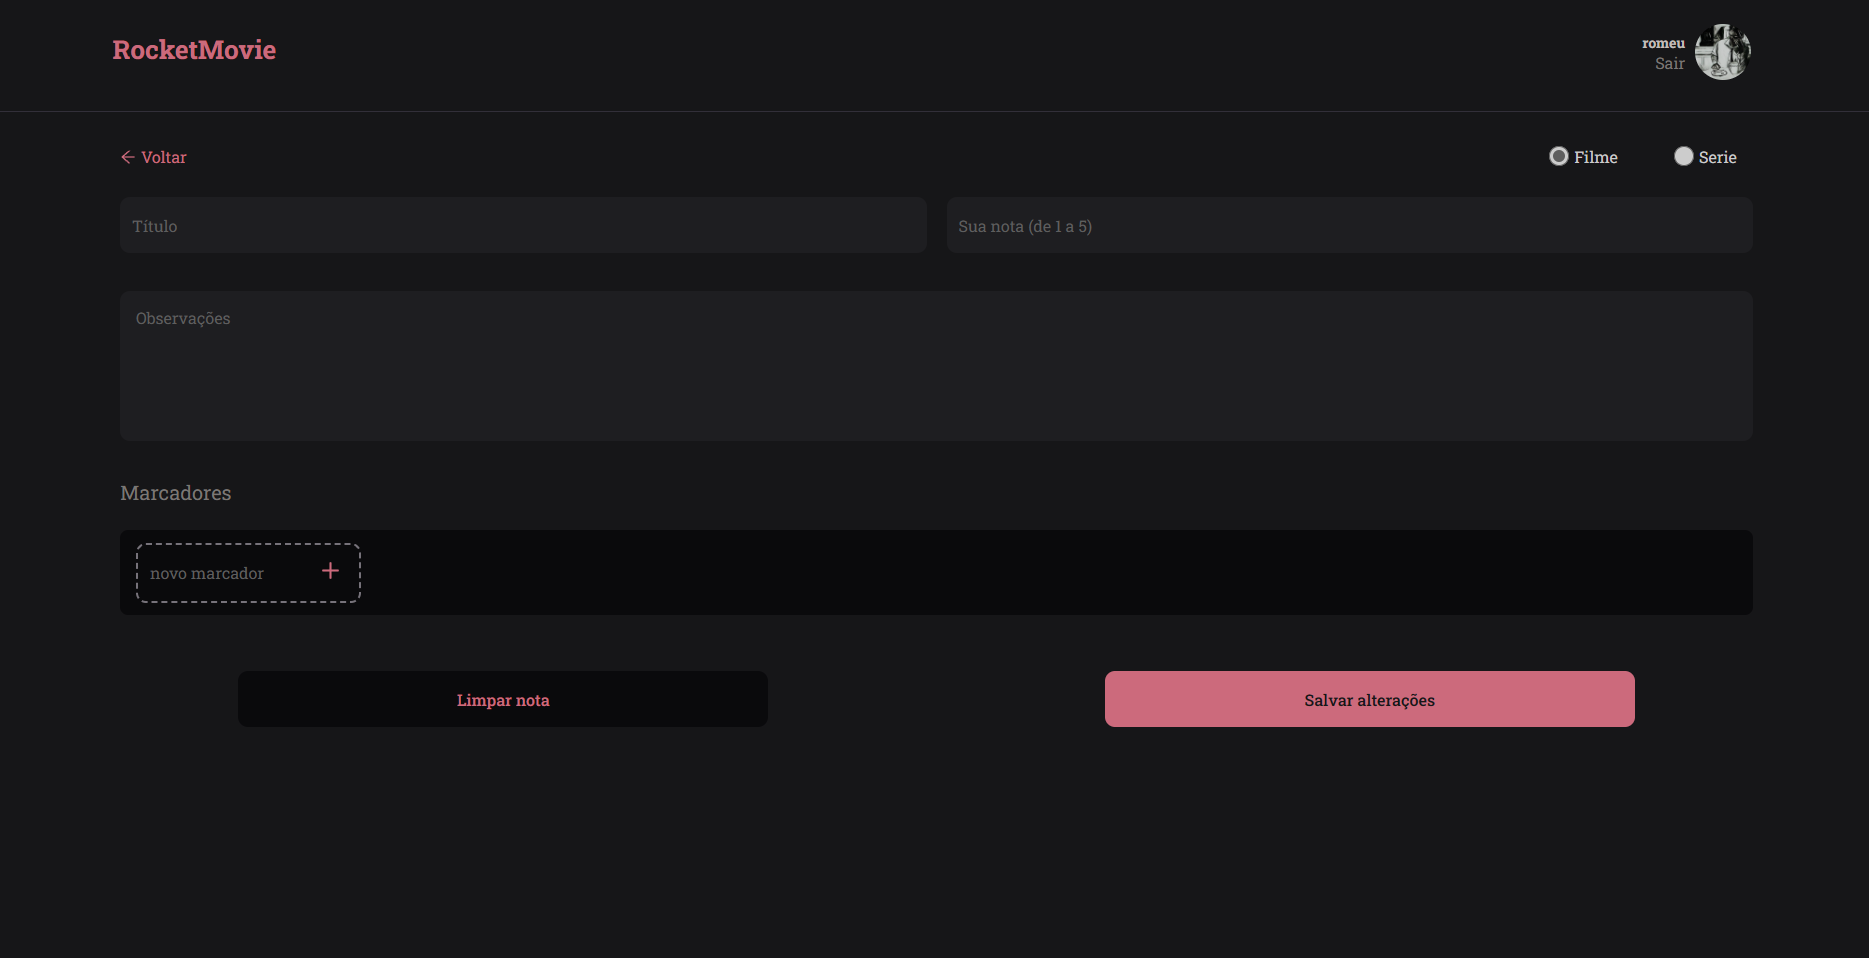
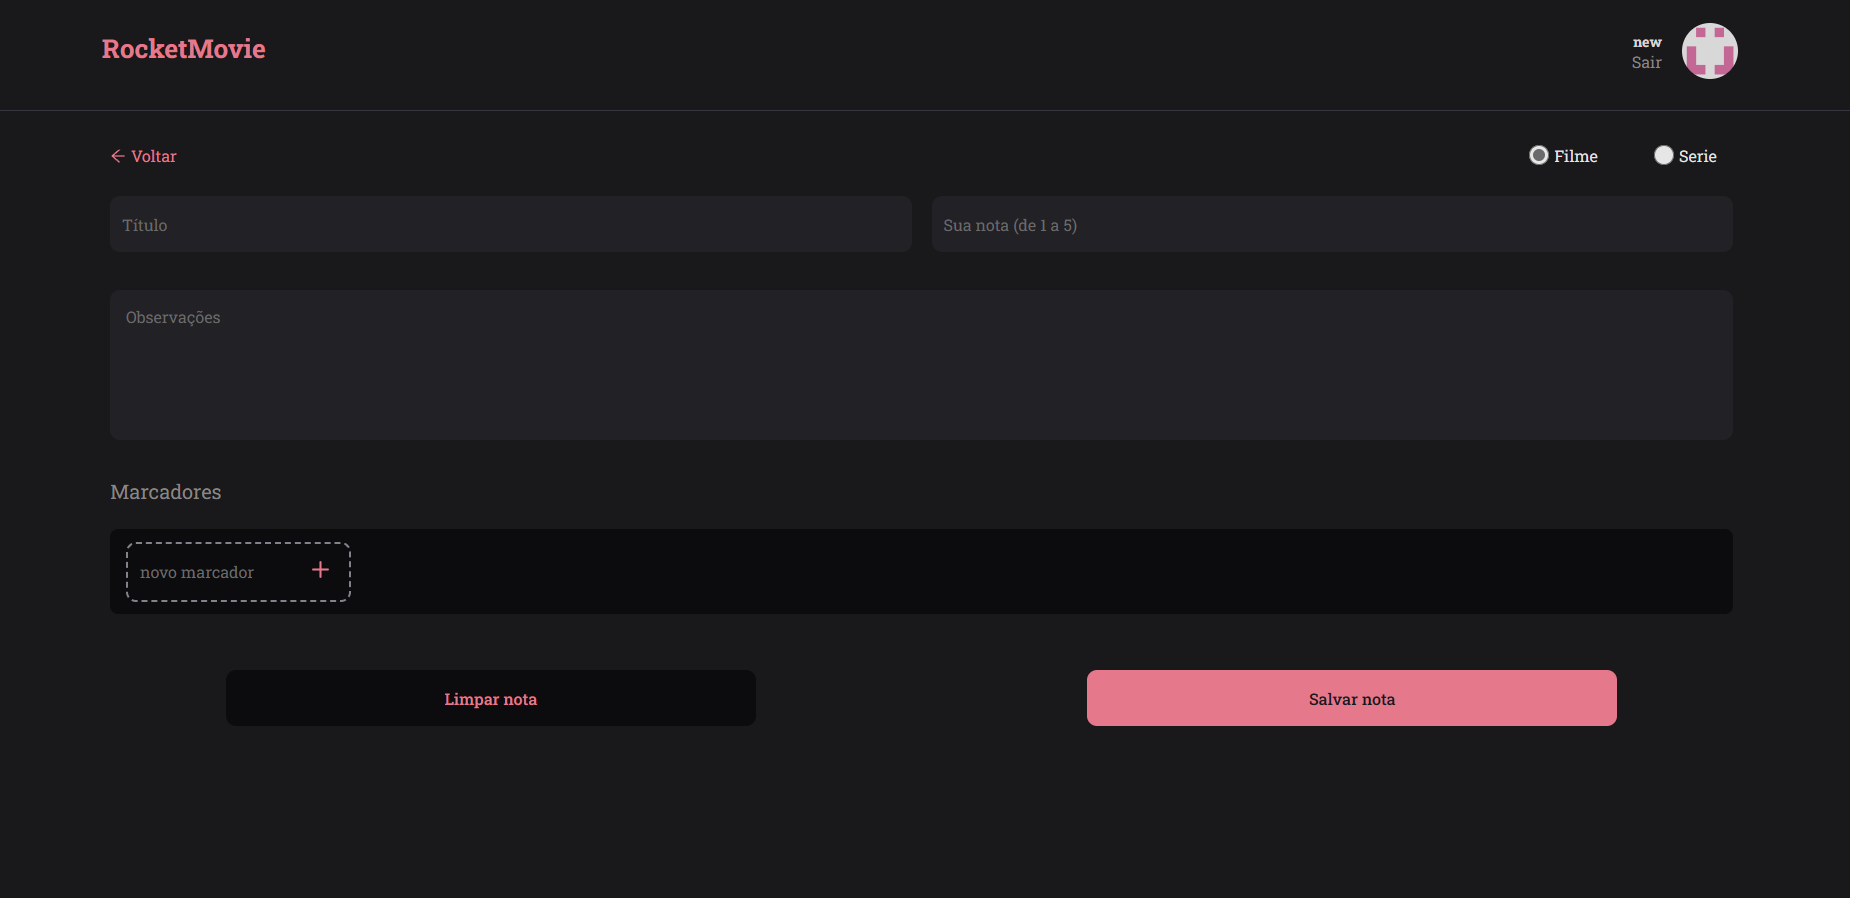
change preview

diff --git a/README.md b/README.md
@@ -2,7 +2,10 @@
 
 > Página front-end com aplicação <strong>react.js</strong>
 
-![preview](./src/assets/preview1.png)
+![preview](./src/assets/previewDM.png)
+
+
+![preview](./src/assets/previewMM.png)
 
 > A ideia é mostrar notas de filmes ou serie que o usuário cadastre em uma lista, podendo ter:
 
